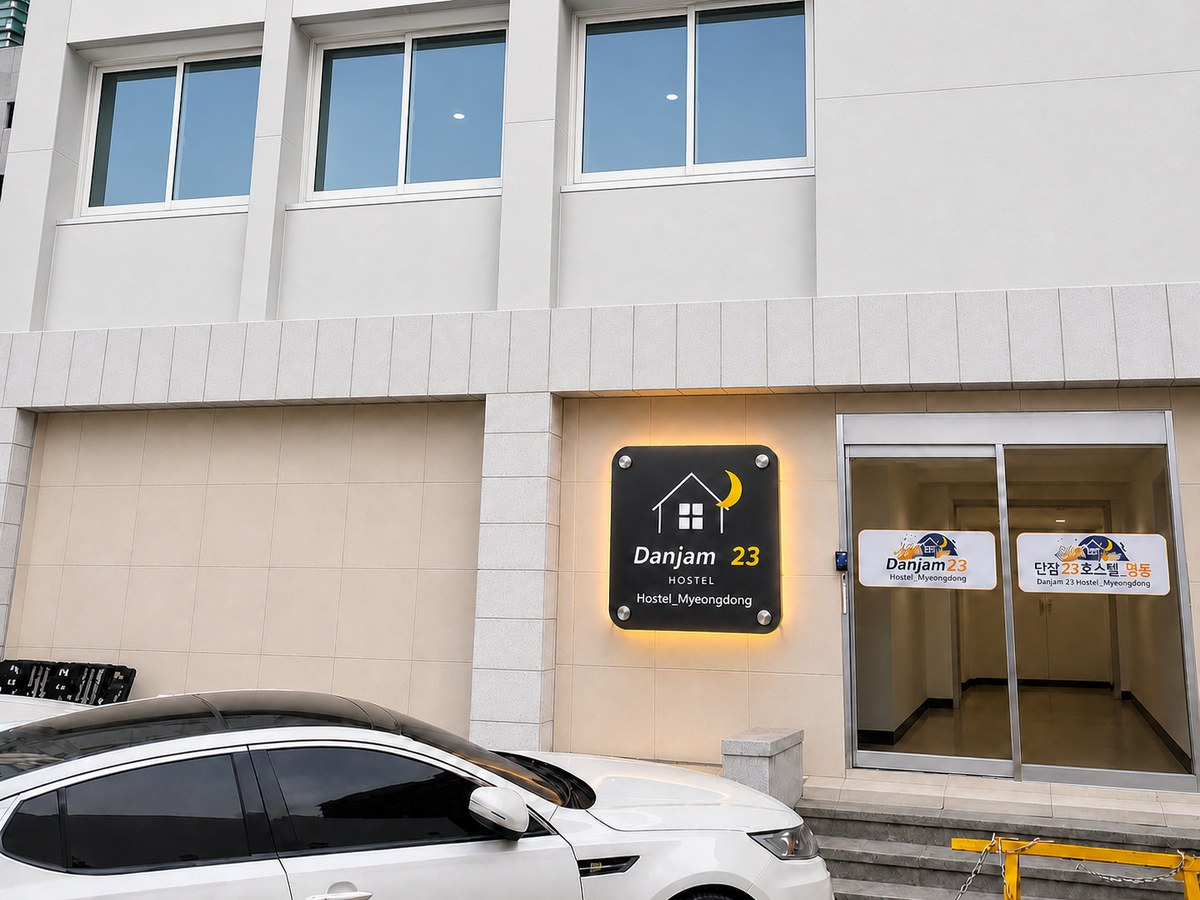
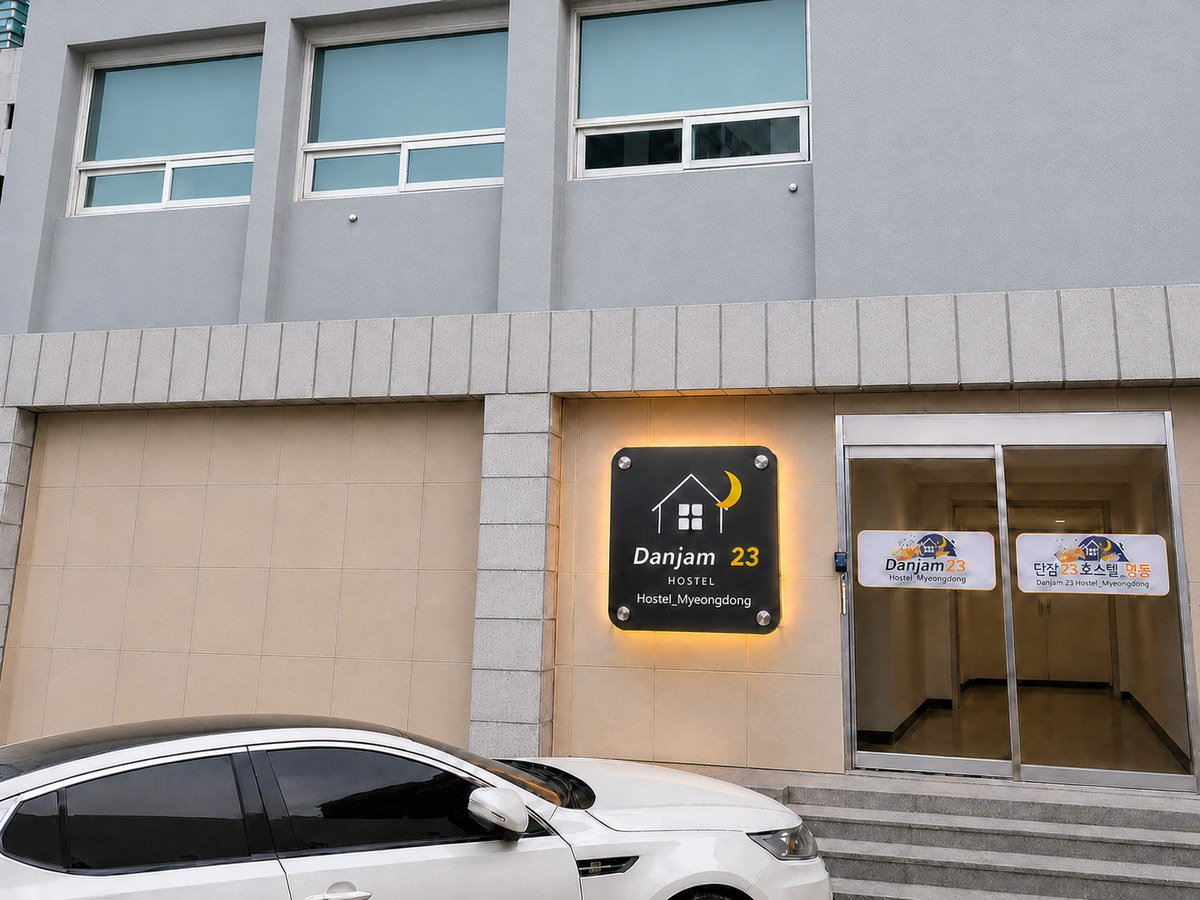
chore: 외관 사진 최종 승인본 반영(2층 벽·창문·돌타일 세척, 가드레일·파레트·유리문 짐 제거) + building ?v=4, sw 캐시 v12

diff --git a/index.html b/index.html
@@ -625,7 +625,7 @@ html[data-theme="dark"] .st{background:rgba(166,146,255,.16);color:#C7BBFF}
       <div class="kicker reveal">LOCATION</div>
       <h2 class="h2 reveal" data-i18n-html="loc_t">찾아오는 길이<br><em>가장 쉬운 숙소</em></h2>
       <div class="loc">
-        <div class="ph reveal"><img loading="lazy" src="images/building.jpg?v=3" alt="단잠 23 건물 외관"></div>
+        <div class="ph reveal"><img loading="lazy" src="images/building.jpg?v=4" alt="단잠 23 건물 외관"></div>
         <div class="reveal">
           <ol class="steps">
             <li><i>1</i><div><b data-i18n="l1_t">지하철 · 충무로역 5번 출구</b><span data-i18n="l1_d">5번 출구로 나와 도보 약 2분입니다.</span></div></li>

diff --git a/sw.js b/sw.js
@@ -1,5 +1,5 @@
 /* 단잠 23 — 홈 화면 앱(PWA) 캐시. 파일을 새로 올리면 VERSION 숫자를 올려 주세요. */
-var VERSION = 'danjam23-v11';
+var VERSION = 'danjam23-v12';
 var CORE = [
   './',
   './index.html',
@@ -9,7 +9,7 @@ var CORE = [
   './manifest.json',
   './images/roof-tower.jpg',
   './images/entrance.jpg?v=3',
-  './images/building.jpg?v=3',
+  './images/building.jpg?v=4',
   './images/twin-window.jpg',
   './images/double-bed.jpg',
   './images/double-warm.jpg',
